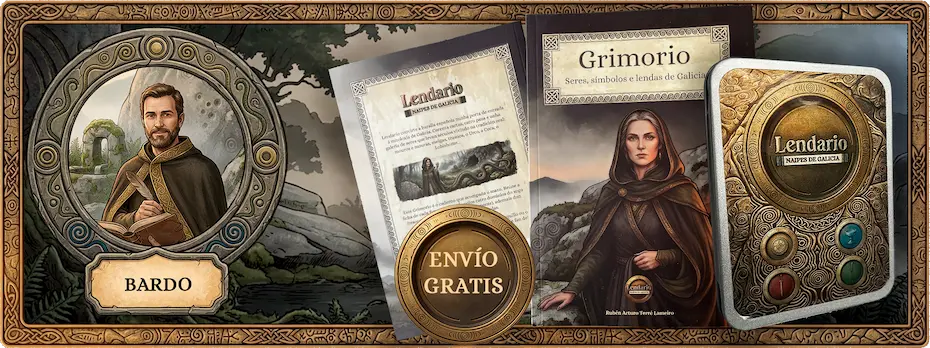
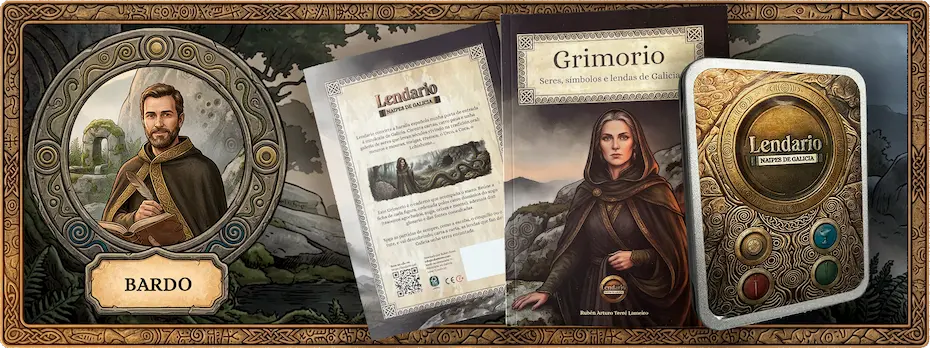
Update product editions

diff --git a/src/i18n/ui.ts b/src/i18n/ui.ts
@@ -24,6 +24,7 @@ export const ui = {
     'product.includes': 'Que inclúe',
     'product.vat': 'IVE incluído',
     'product.featured': 'Inclúe o libro',
+    'product.freeShipping': 'Envío gratis',
     'product.add': 'Engadir ao carro',
     'cart.open': 'Abrir o carro',
     'cart.close': 'Pechar o carro',
@@ -157,6 +158,7 @@ export const ui = {
     'product.includes': 'Qué incluye',
     'product.vat': 'IVA incluido',
     'product.featured': 'Incluye el libro',
+    'product.freeShipping': 'Envío gratis',
     'product.add': 'Añadir al carrito',
     'cart.open': 'Abrir el carrito',
     'cart.close': 'Cerrar el carrito',
